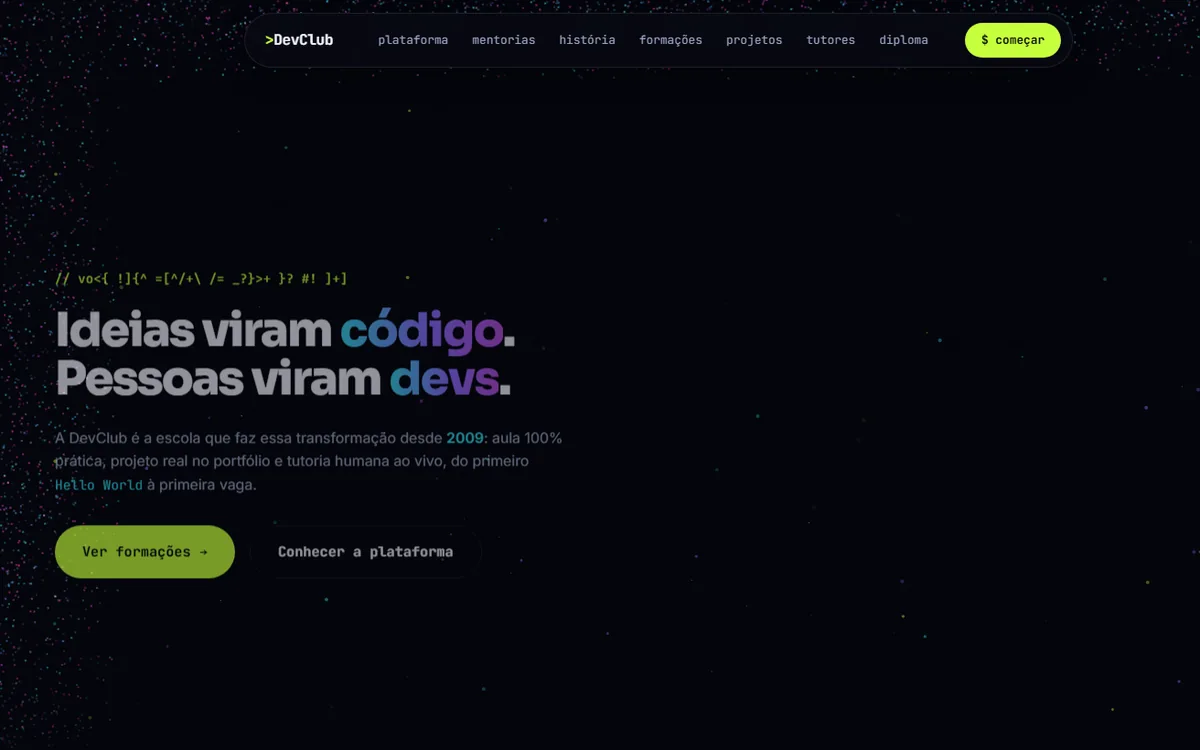
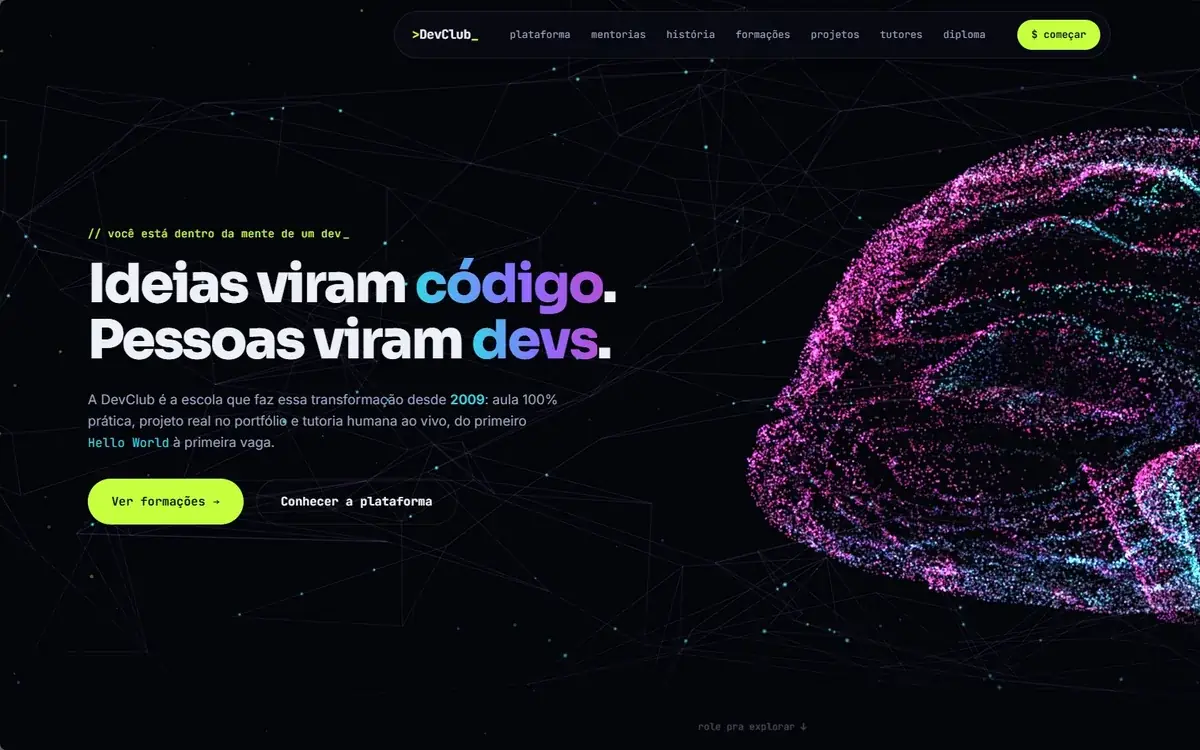
Usa a captura do DevClub com o cerebro de particulas
O Jefferson capturou a pagina com GPU de verdade, entao a intro 3D
aparece renderizada — coisa que a captura automatica nao consegue. A
imagem passou a mostrar o cerebro de particulas, que e justamente o que
o texto do case descreve. Antes, o card falava de um cerebro em 3D e
mostrava um campo de estrelas vazio.

Ajustes feitos na imagem entregue:
- Era 1912x948 (2:1) e o card e 16:10. O corte comeca em x=0: cortando
  pelo centro, o "Ideias viram codigo" perdia as primeiras letras.
  Comecando pela esquerda, a margem real da pagina fica preservada e o
  cerebro sangra na borda direita, como ja acontece no site.
- PNG de 2 MB convertido para webp. Qualidade 70 em vez de 82: comparei
  as duas ampliadas em 4x no meio do cerebro e nao da para distinguir,
  mas economiza 25%. Ficou em 75 KB.
- O png cru saiu da pasta de cases, que so guarda o que vai para o ar.
- O texto alternativo voltou a descrever o cerebro.

Ainda e a maior das tres imagens (75 KB contra 34 KB), porque milhares de
particulas finas sao o pior caso para compressao. Como ela carrega em
lazy e fica abaixo da dobra, o custo cai bem.

diff --git a/index.html b/index.html
@@ -62,10 +62,10 @@
        linhas abaixo. O navegador entende que e outro arquivo e baixa de
        novo. Vale o mesmo para os sites dos seus clientes.
        ==================================================================== -->
-  <link rel="stylesheet" href="css/variables.css?v=2026-08-20c">
-  <link rel="stylesheet" href="css/base.css?v=2026-08-20c">
-  <link rel="stylesheet" href="css/components.css?v=2026-08-20c">
-  <link rel="stylesheet" href="css/sections.css?v=2026-08-20c">
+  <link rel="stylesheet" href="css/variables.css?v=2026-08-20d">
+  <link rel="stylesheet" href="css/base.css?v=2026-08-20d">
+  <link rel="stylesheet" href="css/components.css?v=2026-08-20d">
+  <link rel="stylesheet" href="css/sections.css?v=2026-08-20d">
 
   <!-- ====================================================================
        Dados estruturados: é assim que o Google entende que existe uma
@@ -531,7 +531,7 @@
           <div class="case-visual">
             <div class="case-janela">
               <img src="assets/img/cases/devclub.webp" width="1200" height="750" loading="lazy"
-                   alt="Página do DevClub: campo de estrelas escuro com o título &quot;Ideias viram código, pessoas viram devs&quot;.">
+                   alt="Página do DevClub: cérebro formado por milhares de partículas ciano e magenta sobre fundo escuro, ao lado do título &quot;Ideias viram código, pessoas viram devs&quot;.">
             </div>
           </div>
 
@@ -842,6 +842,6 @@
   </div>
 </footer>
 
-<script src="js/main.js?v=2026-08-20c" defer></script>
+<script src="js/main.js?v=2026-08-20d" defer></script>
 </body>
 </html>
